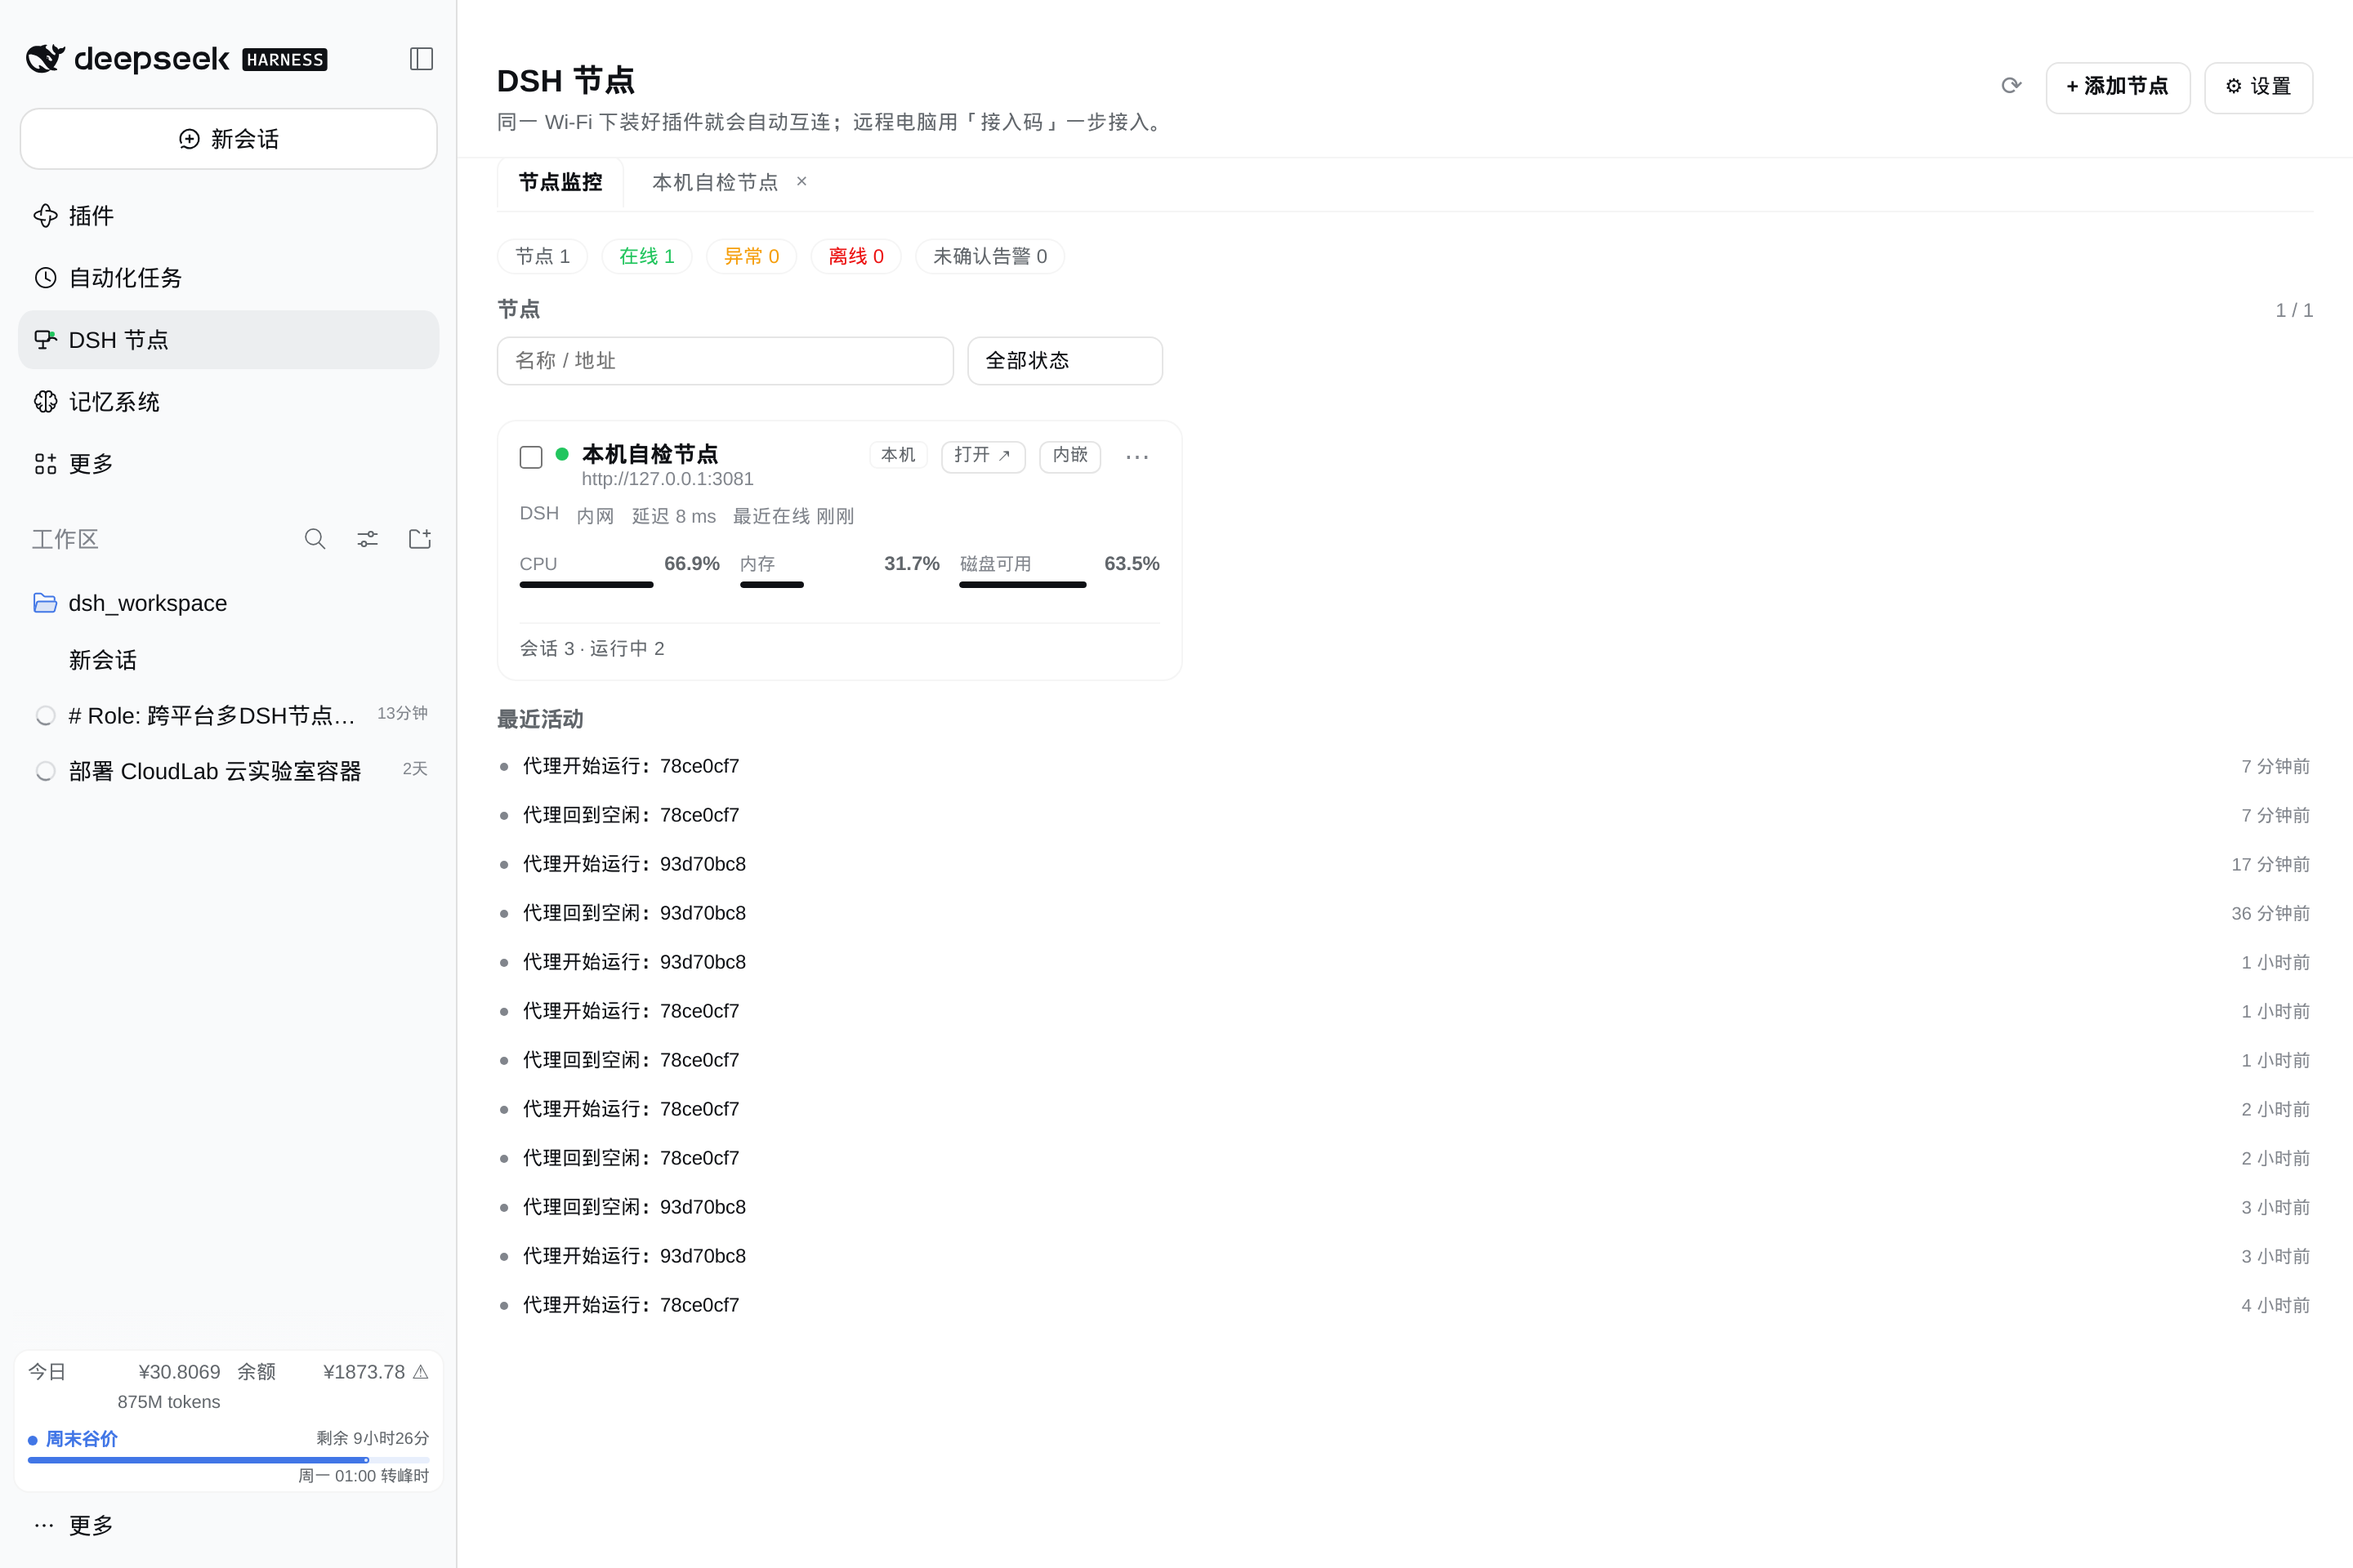
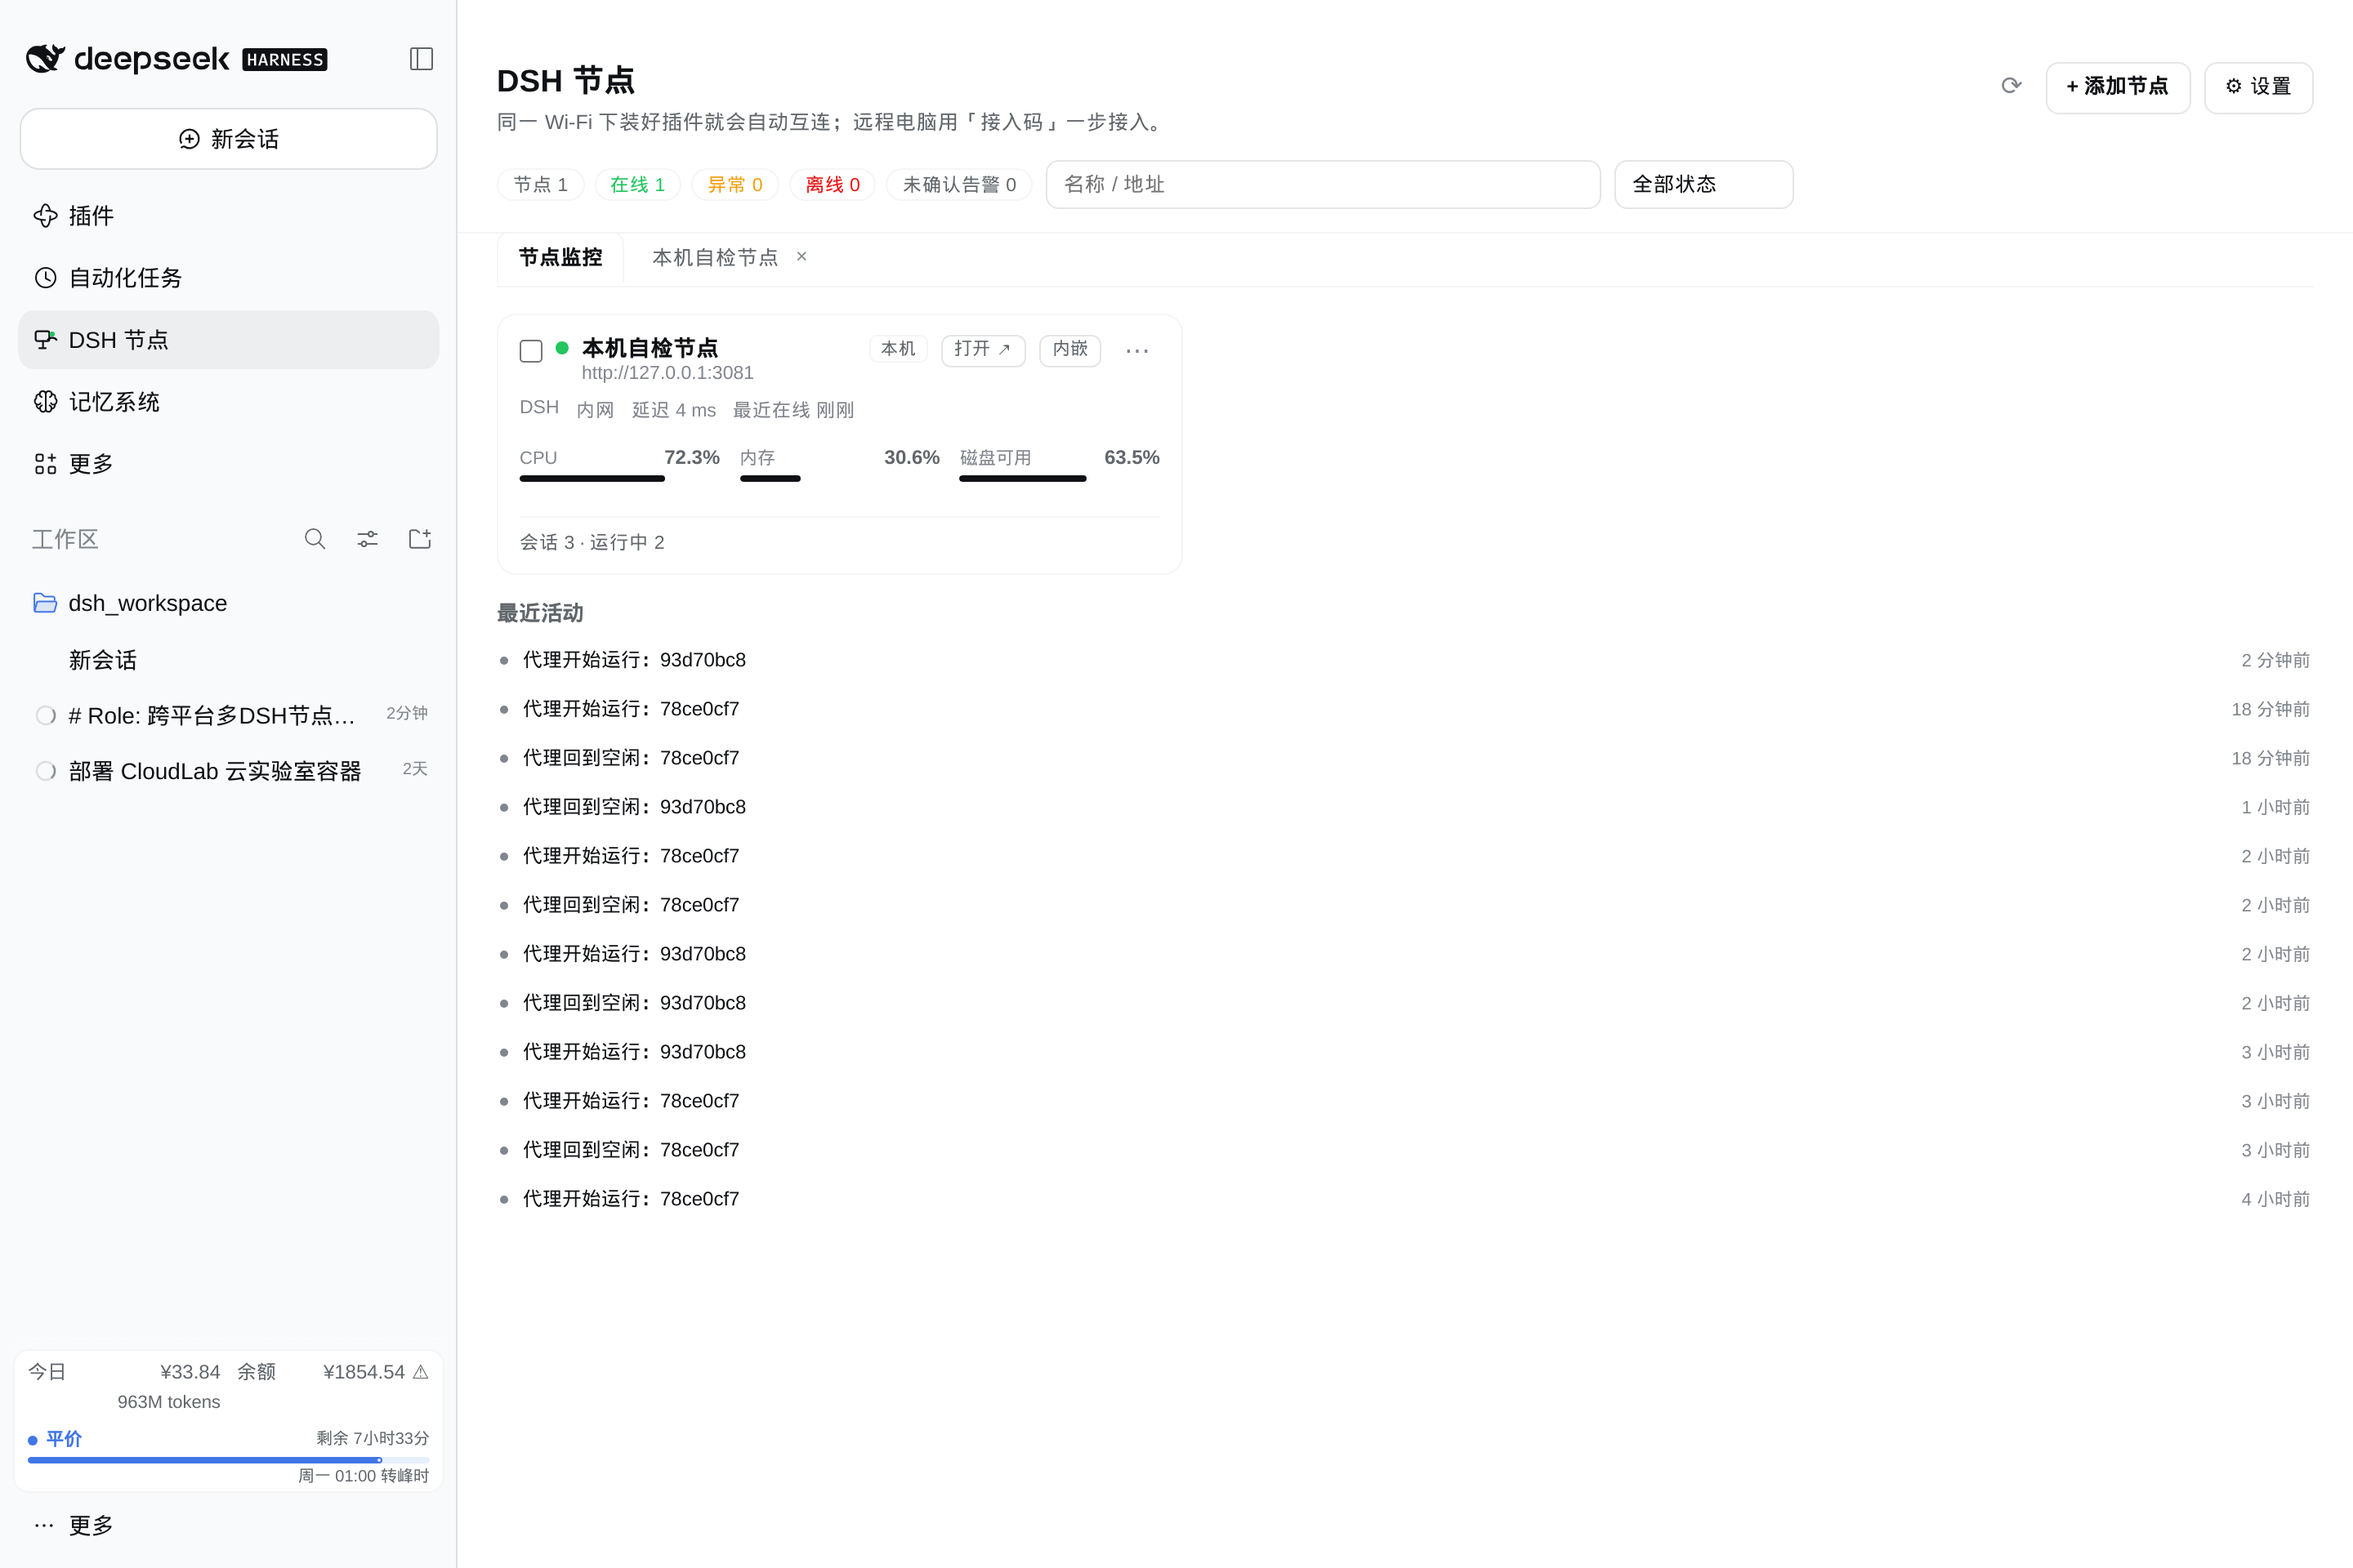
v0.10.2: move summary and filters into the title bar
- Summary chips, search and status filter live in the sticky header
- Body now starts directly with node cards and activity
- Fix mobile header stacking and collapsed tabs
- Tests 61 (34 core + 27 host)

diff --git a/lib/client.js b/lib/client.js
@@ -2153,52 +2153,7 @@ window.__ModuleLoader__.load({
               h('ul', { key: 'list', className: 'nm-alert-list' }, openAlerts.map((alert) => h(AlertRow, { key: alert.key, alert, onAck: actions.ackAlert, onOpen: () => actions.openDetail(alert.nodeId) })))
             ])
           : null,
-        h('section', { key: 'nodes', className: 'nm-section' }, [
-          h('div', { key: 'head', className: 'nm-section-head' }, [h('h3', { key: 'title' }, t('summary.nodes')), h('span', { key: 'count', className: 'nm-section-count' }, `${visibleIds.length} / ${nodes.length}`)]),
-          h('div', { key: 'filters', className: 'nm-filters' }, [
-            h('input', {
-              key: 'q',
-              className: 'nm-input nm-filter-search',
-              value: filter.q,
-              placeholder: t('filter.searchPlaceholder'),
-              'aria-label': t('filter.search'),
-              onChange: (event) => actions.setFilter({ q: event.target.value })
-            }),
-            h(
-              'select',
-              {
-                key: 'status',
-                className: 'nm-input nm-filter-select',
-                value: filter.status,
-                onChange: (event) => actions.setFilter({ status: event.target.value })
-              },
-              [
-                h('option', { key: 'all', value: 'all' }, t('filter.statusAll')),
-                h('option', { key: 'online', value: 'online' }, t('status.online')),
-                h('option', { key: 'degraded', value: 'degraded' }, t('status.degraded')),
-                h('option', { key: 'offline', value: 'offline' }, t('status.offline')),
-                h('option', { key: 'unknown', value: 'unknown' }, t('status.unknown'))
-              ]
-            ),
-            allTags.length > 0
-              ? h(
-                  'select',
-                  {
-                    key: 'tag',
-                    className: 'nm-input nm-filter-select',
-                    value: filter.tag,
-                    onChange: (event) => actions.setFilter({ tag: event.target.value })
-                  },
-                  [
-                    h('option', { key: 'all', value: 'all' }, t('filter.tagAll')),
-                    allTags.map((tag) => h('option', { key: tag, value: tag }, tag))
-                  ]
-                )
-              : null,
-            filtered.length !== nodes.length
-              ? h('button', { key: 'clear', className: 'nm-btn nm-btn--ghost', onClick: actions.clearFilter }, t('filter.clear'))
-              : null
-          ]),
+        h('div', { key: 'nodes', className: 'nm-body' }, [
           selectedIds.length > 0
             ? h('div', { key: 'batch', className: 'nm-batch' }, [
                 h('span', { key: 'count', className: 'nm-batch-count' }, t('batch.selected', { count: selectedIds.length })),
@@ -3149,6 +3104,37 @@ window.__ModuleLoader__.load({
             h('button', { key: 'refresh', className: 'nm-icon-btn', title: t('actions.refresh'), disabled: st.busy, onClick: () => store.actions.load({ silent: false }) }, st.busy ? '…' : '⟳'),
             h('button', { key: 'add', className: 'nm-btn nm-btn--primary', onClick: () => store.actions.openModal({ type: 'add' }) }, '+ ' + t('actions.add')),
             h('button', { key: 'settings', className: 'nm-btn nm-btn--ghost', onClick: () => store.actions.openSettings('connect') }, '⚙ ' + t('actions.settings'))
+          ]),
+          h('div', { key: 'tools', className: 'nm-head-tools' }, [
+            summary
+              ? h('div', { key: 'summary', className: 'nm-summary' }, [
+                  h(Chip, { key: 'nodes', tone: 'neutral' }, `${t('summary.nodes')} ${summary.total}`),
+                  h(Chip, { key: 'online', tone: 'ok' }, `${t('summary.online')} ${summary.online}`),
+                  h(Chip, { key: 'degraded', tone: 'warn' }, `${t('summary.degraded')} ${summary.degraded}`),
+                  h(Chip, { key: 'offline', tone: 'error' }, `${t('summary.offline')} ${summary.offline}`),
+                  h(Chip, { key: 'alerts', tone: summary.alertsOpen > 0 ? 'error' : 'neutral' }, `${t('summary.alerts')} ${summary.alertsOpen}`)
+                ])
+              : null,
+            h('input', {
+              key: 'q',
+              className: 'nm-input nm-filter-search',
+              value: (st.filter || {}).q || '',
+              placeholder: t('filter.searchPlaceholder'),
+              'aria-label': t('filter.search'),
+              onChange: (event) => store.actions.setFilter({ q: event.target.value })
+            }),
+            h('select', {
+              key: 'status',
+              className: 'nm-input nm-filter-select',
+              value: (st.filter || {}).status || 'all',
+              onChange: (event) => store.actions.setFilter({ status: event.target.value })
+            }, [
+              h('option', { key: 'all', value: 'all' }, t('filter.statusAll')),
+              h('option', { key: 'online', value: 'online' }, t('status.online')),
+              h('option', { key: 'degraded', value: 'degraded' }, t('status.degraded')),
+              h('option', { key: 'offline', value: 'offline' }, t('status.offline')),
+              h('option', { key: 'unknown', value: 'unknown' }, t('status.unknown'))
+            ])
           ])
         ]),
         h('nav', { key: 'tabs', className: 'nm-tabs' }, [
@@ -3175,15 +3161,6 @@ window.__ModuleLoader__.load({
             ])
           )
         ]),
-        summary
-          ? h('div', { key: 'summary', className: 'nm-summary' }, [
-              h(Chip, { key: 'nodes', tone: 'neutral' }, `${t('summary.nodes')} ${summary.total}`),
-              h(Chip, { key: 'online', tone: 'ok' }, `${t('summary.online')} ${summary.online}`),
-              h(Chip, { key: 'degraded', tone: 'warn' }, `${t('summary.degraded')} ${summary.degraded}`),
-              h(Chip, { key: 'offline', tone: 'error' }, `${t('summary.offline')} ${summary.offline}`),
-              h(Chip, { key: 'alerts', tone: summary.alertsOpen > 0 ? 'error' : 'neutral' }, `${t('summary.alerts')} ${summary.alertsOpen}`)
-            ])
-          : null,
         st.error ? h('div', { key: 'error', className: 'nm-banner' }, [h('span', { key: 'text' }, st.error), h('button', { key: 'retry', className: 'nm-btn nm-btn--ghost', onClick: () => store.actions.load({ silent: false }) }, t('actions.retry'))]) : null,
         st.phase === 'loading' && !data ? h('div', { key: 'loading', className: 'nm-loading' }, [h(Spinner, { key: 's' }), h('span', { key: 't' }, t('loading'))]) : null,
         st.tab === 'monitor'
@@ -3240,6 +3217,12 @@ window.__ModuleLoader__.load({
 .nm-btn--danger { color:var(--dsw-alias-state-error-primary); border-color:color-mix(in srgb, var(--dsw-alias-state-error-primary) 45%, transparent); }
 .nm-icon-btn { border:none; background:transparent; color:var(--dsw-alias-label-tertiary); cursor:pointer; font-size:16px; line-height:1; padding:3px 6px; border-radius:6px; }
 .nm-icon-btn:hover { background:var(--dsw-alias-interactive-bg-hover); color:var(--dsw-alias-label-primary); }
+
+.nm-head-tools { flex:0 0 100%; display:flex; align-items:center; gap:8px; flex-wrap:wrap; }
+.nm-head-tools .nm-summary { gap:6px; }
+.nm-head-tools .nm-chip { padding:2px 9px; font-size:11.5px; }
+.nm-head-tools .nm-filter-search { flex:1 1 200px; max-width:340px; }
+.nm-head-tools .nm-filter-select { width:auto; min-width:110px; }
 .nm-summary { display:flex; gap:8px; flex-wrap:wrap; }
 .nm-chip { display:inline-flex; align-items:center; gap:6px; border-radius:999px; padding:3px 10px; font-size:12px; background:var(--dsw-alias-bg-layer-2); border:1px solid var(--dsw-alias-border-l1); color:var(--dsw-alias-label-secondary); }
 .nm-chip--ok { color:var(--dsw-alias-state-success-primary); }
@@ -3310,7 +3293,11 @@ window.__ModuleLoader__.load({
 .nm-hub-form .nm-input { flex:1 1 220px; }
 .nm-hub { margin-top:10px; }
 @media (max-width:760px) {
-.nm-head { position:static; margin:-22px -16px 10px; padding:14px 16px 12px; }
+.nm-head { position:static; display:flex; flex-direction:column; flex-wrap:nowrap; align-items:stretch; gap:10px; margin:-22px -16px 10px; padding:14px 16px 12px; }
+.nm-head-tools { flex:1 1 100%; width:100%; }
+.nm-head-tools .nm-filter-search { flex:1 1 58%; min-width:0; max-width:none; }
+.nm-head-tools .nm-filter-select { flex:0 0 38%; min-width:0; }
+.nm-head-tools .nm-summary { width:100%; overflow-x:auto; flex-wrap:nowrap; }
 .nm-head-actions { width:100%; justify-content:space-between; }
 .nm-head-actions .nm-btn--primary { flex:1; justify-content:center; }
 .nm-card-open--secondary { display:none; }
@@ -3427,7 +3414,7 @@ window.__ModuleLoader__.load({
 .nm-toast--ok { color:var(--dsw-alias-state-success-primary); }
 
 
-.nm-tabs { display:flex; gap:4px; overflow-x:auto; padding:0 0 2px; border-bottom:1px solid var(--dsw-alias-border-l1); margin:-6px 0 2px; }
+.nm-tabs { display:flex; flex:0 0 auto; min-height:33px; gap:4px; overflow-x:auto; padding:0 0 2px; border-bottom:1px solid var(--dsw-alias-border-l1); margin:-6px 0 2px; }
 .nm-tab { display:inline-flex; align-items:center; gap:6px; white-space:nowrap; border:1px solid transparent; border-bottom:none; background:transparent; color:var(--dsw-alias-label-secondary); border-radius:9px 9px 0 0; padding:8px 12px; font-size:12.5px; cursor:pointer; }
 .nm-tab:hover { background:var(--dsw-alias-interactive-bg-hover); color:var(--dsw-alias-label-primary); }
 .nm-tab--active { background:var(--dsw-alias-bg-layer-1); border-color:var(--dsw-alias-border-l1); color:var(--dsw-alias-label-primary); font-weight:600; }

diff --git a/lib/index.js b/lib/index.js
@@ -31,7 +31,7 @@ const AUTH_FAIL_LIMIT = 20
 const REQUEST_WINDOW_MS = 60_000
 const REQUEST_LIMIT = 240
 const DISK_CACHE_MS = 30_000
-const PLUGIN_VERSION = '0.10.1'
+const PLUGIN_VERSION = '0.10.2'
 
 function normalizePublicUrl(value) {
   const text = core.cleanText(value, 300).replace(/\/+$/, '')

diff --git a/docs/CHANGELOG.md b/docs/CHANGELOG.md
@@ -1,5 +1,11 @@
 ## v0.8.0 — 2026-11-15
 
+## v0.10.2 — 2026-11-16
+
+- 汇总指标（节点/在线/异常/离线/告警）与搜索、状态筛选移入顶部标题栏，列表区域只保留卡片与动态。
+- 移动端标题栏改为纵向堆叠并修复标签页被压缩的问题。
+- 测试 61（34 core + 27 host）。
+
 ## v0.10.1 — 2026-11-15
 
 - 旧宿主（无 upgradeCheck 端点）打开设置时，更新检查失败会直接显示错误与「手动下载」链接，不再静默。
